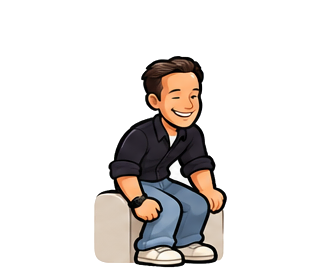
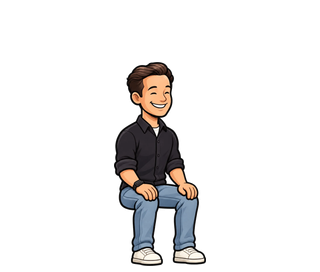
BADI Wereld: Bram kan zitten met een losse zitpose zonder stoel

Changed region(s): [[0.2812, 0.2059, 0.7188, 1.0]]

diff --git a/tests/world.test.ts b/tests/world.test.ts
@@ -51,3 +51,12 @@ describe("who sees the world", () => {
     expect(canSeeWorld(null)).toBe(false);
   });
 });
+
+describe("sitting", () => {
+  it("every character has a sitting pose without its own chair, so it fits any seat", () => {
+    for (const key of WORLD_SPRITES) {
+      const manifest = JSON.parse(fs.readFileSync(path.join(PUBLIC, "poppetjes", key, "manifest.json"), "utf8")) as SpriteManifest;
+      expect(manifest.animations.zitten.withChair, key).toBeFalsy();
+    }
+  });
+});

diff --git a/docs/wereld/WERELD.md b/docs/wereld/WERELD.md
@@ -185,7 +185,7 @@ Elke fase in een nieuwe sessie, met het model dat bij de fase staat. Loopt een f
 - Zitten op de eettafelstoelen zit er nog niet in: je zou met je rug naar de kijker zitten en er is geen achteraanzicht.
 
 **Open**
-- Bram kan nog niet zitten: zijn zitpose zit in zijn eigen leunstoel. Hij loopt naar de zitplek en blijft staan, met een melding.
+- ~~Bram kan nog niet zitten~~ Opgelost: losse zitpose `docs/wereld/bron/bram-zitten.png`, op de maat van het stijlvoorbeeld (204 px figuurhoogte in het frame).
 - De deur leidt nog nergens heen: buiten, kantoor en sportschool zijn stap 1b.
 - Snelheid op een echte telefoon nog meten (doel 60 fps).
 
